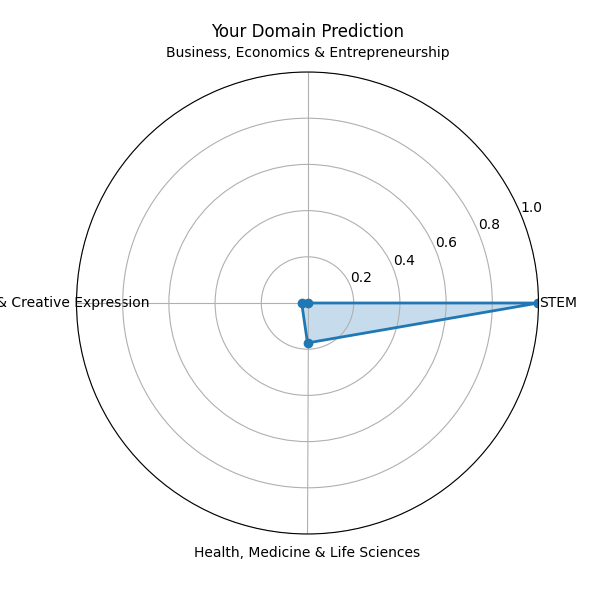
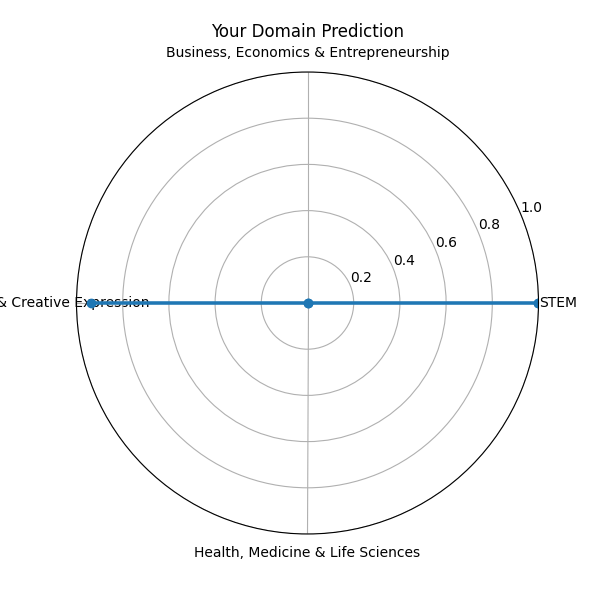
new user test

Changed region(s): [[0.15, 0.48, 0.9, 0.6]]

diff --git a/4PI-ML/main.py b/4PI-ML/main.py
@@ -102,7 +102,7 @@ def explain_prediction(scores, labels):
 # =========================
 from simulate_user import real_user_response, simulate_user_response
 
-record = real_user_response(4)
+record = real_user_response(5)
 my_prediction = predict_user(record[1:])
 print(f"\nPredicted domain scores for {record[0]}: ", my_prediction)
 
